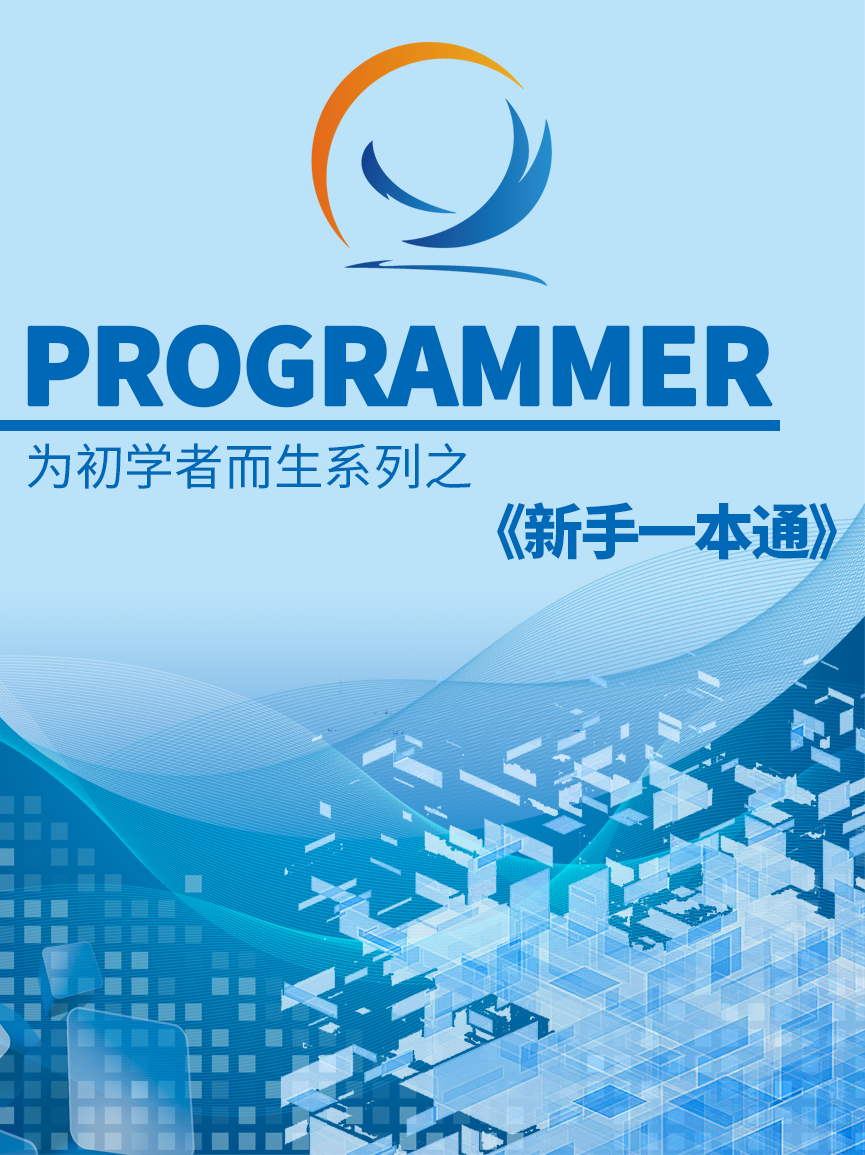
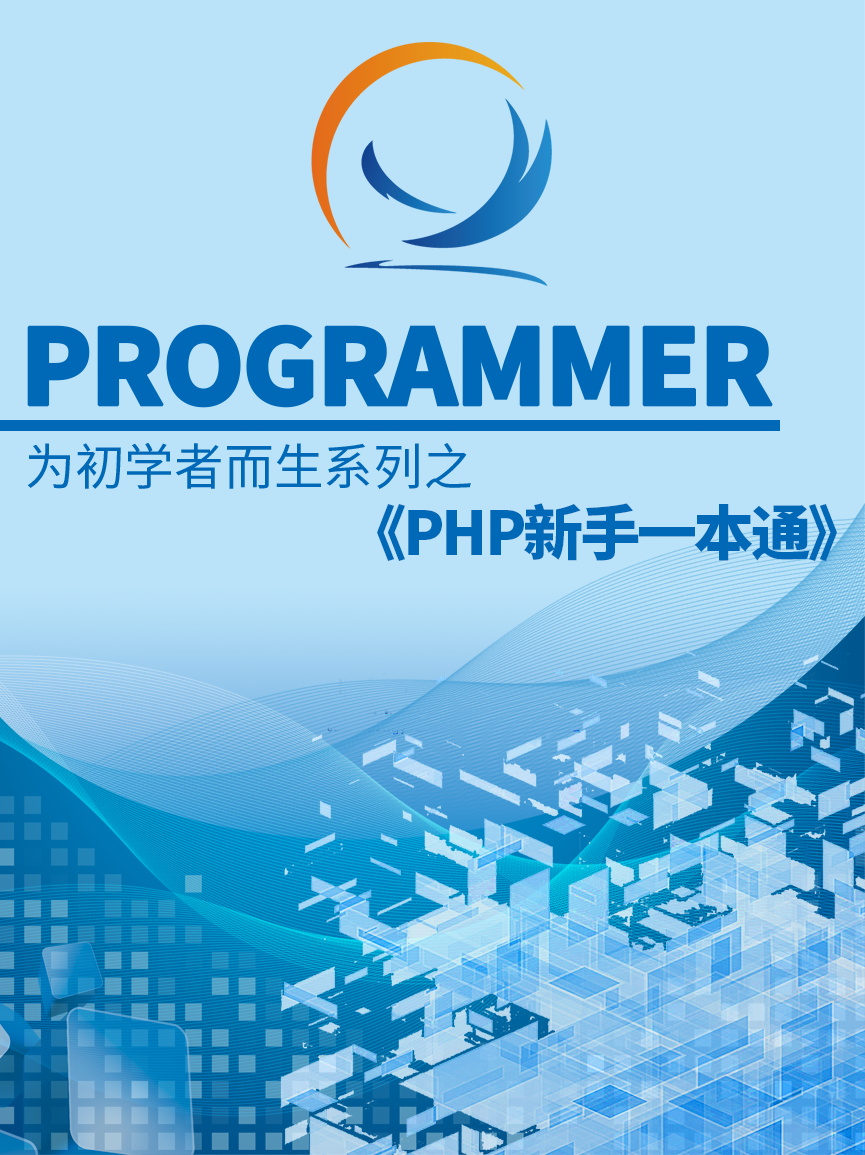
更新了 《PHP新手一本通》 第六版的架构及说明

Changed region(s): [[0.437, 0.4364, 0.7491, 0.4987], [0.8428, 0.4364, 0.9676, 0.4987]]

diff --git a/README.md b/README.md
@@ -1,20 +1,20 @@
-# 关于 `《programmer》`
+# 关于 `《PHP新手一本通》`
 
-> programmer 是为了便于本人工作中的查询，而总结的一系列关于编程的知识点！
+> 《PHP 新手一本通》 是为了便于本人工作中的查询，而总结的一系列关于编程的知识点！
 
 ## 架构
 
-> 《programmer》 涉及到的知识模块如下表：
+> 《PHP 新手一本通》 涉及到的知识模块如下表：
 
-| 模块                         | 说明                            |
-| ---------------------------- | ------------------------------- |
-| [Editor](./Editor/README.md) | 介绍了 Atom 等常用编辑器        |
-| [HTML5](./HTML5/README.md)   | 介绍了 Web 前端常用的内容       |
-| [WAMP](./WAMP/README.md)     | 介绍了 WAMP 开发环境的搭建      |
-| [PHP](./PHP/README.md)       | 介绍了 PHP 各类疑难杂症         |
-| [Git](./Git/README.md)       | 介绍了 Git 的常用指令及进阶内容 |
-| [Debian](./Git/README.md)    | 介绍了 PHP 开发者常见的运维知识 |
-| [Docker](./Docker/README.md) | 介绍了 Docker（最常用的容器）   |
+| 模块                                        | 说明                            |
+| ------------------------------------------- | ------------------------------- |
+| [掌握一款编辑器](./Editor/README.md)        | 介绍了 Atom 等常用编辑器        |
+| [不得不说的 HTML5](./HTML5/README.md)       | 介绍了 Web 前端常用的内容       |
+| [wamp 开发环境](./WAMP/README.md)           | 介绍了 WAMP 开发环境的搭建      |
+| [PHP 疑难杂症](./PHP/README.md)             | 介绍了 PHP 各类疑难杂症         |
+| [控制版本系统之 Git](./Git/README.md)       | 介绍了 Git 的常用指令及进阶内容 |
+| [Debian](./Debian/README.md)                   | 介绍了 PHP 开发者常见的运维知识 |
+| [引用容器引擎之 Docker](./Docker/README.md) | 介绍了 Docker（最常用的容器）   |
 
 ## 对初学者的忠告
 

diff --git a/Debian/README.md b/Debian/README.md
@@ -1,0 +1,3 @@
+# 《PHP 运维的那些事》
+
+> 关于运维方面的知识点，我们会放在 Debian 10.x 里讲解！
